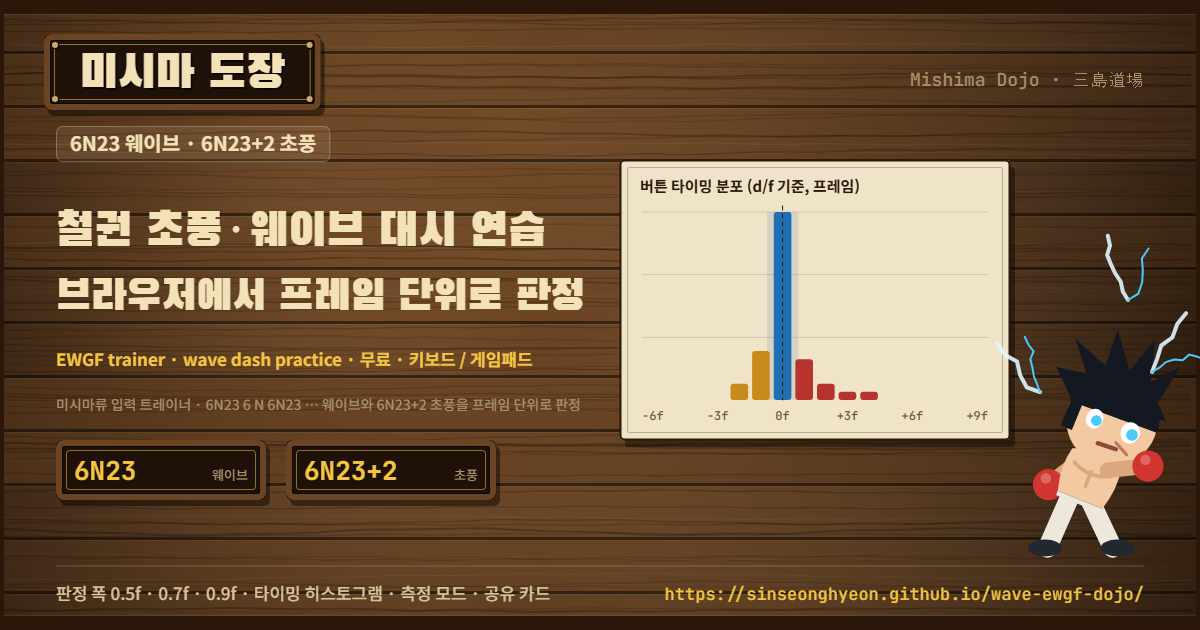
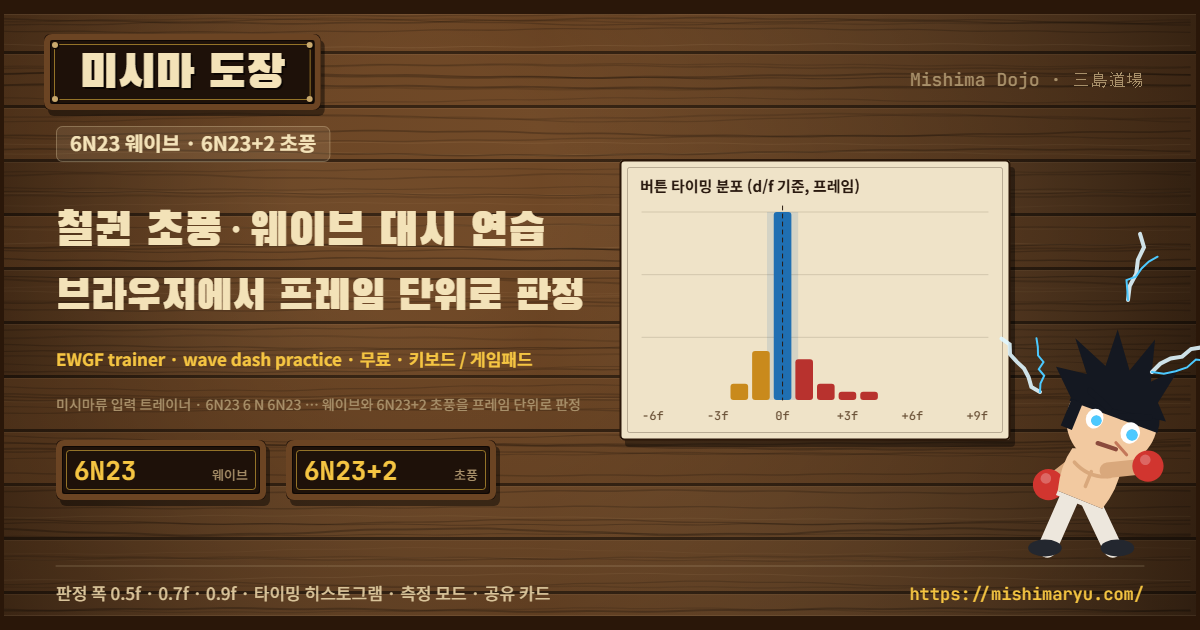
Move the site to mishimaryu.com
Add CNAME for the GitHub Pages custom domain, point canonical/og/share
URLs at https://mishimaryu.com/, regenerate og.png, and allow the apex
and www origins in the leaderboard worker (github.io kept for the redirect).
Also rewrites the early-button coach text (2 goes with the roll into d/f).

Claude-Session: https://claude.ai/code/session_01U3i3pqndvPV2zLaWgEybVw

diff --git a/index.html b/index.html
@@ -7,13 +7,13 @@
 <meta name="description" content="철권 미시마류 초풍(EWGF)·웨이브 대시(6N23) 입력을 브라우저에서 프레임 단위로 판정하는 무료 연습 도구. 키보드·게임패드 지원, 판정 폭 0.5f/0.7f/0.9f, 타이밍 히스토그램과 측정 모드. Free Tekken EWGF trainer & wave dash practice tool with frame-accurate input judging.">
 <meta name="robots" content="index,follow">
 <meta name="theme-color" content="#0B0E13">
-<link rel="canonical" href="https://sinseonghyeon.github.io/wave-ewgf-dojo/">
+<link rel="canonical" href="https://mishimaryu.com/">
 <meta property="og:type" content="website">
 <meta property="og:site_name" content="미시마 도장 · Mishima Dojo">
 <meta property="og:title" content="미시마 도장 | 철권 초풍·웨이브 대시 연습 (Mishima Dojo EWGF Trainer)">
 <meta property="og:description" content="철권 초풍·웨이브 대시 입력을 브라우저에서 프레임 단위로 판정하는 무료 연습 도구. Free Tekken EWGF trainer & wave dash practice tool.">
-<meta property="og:url" content="https://sinseonghyeon.github.io/wave-ewgf-dojo/">
-<meta property="og:image" content="https://sinseonghyeon.github.io/wave-ewgf-dojo/og.png">
+<meta property="og:url" content="https://mishimaryu.com/">
+<meta property="og:image" content="https://mishimaryu.com/og.png">
 <meta property="og:image:width" content="1200">
 <meta property="og:image:height" content="630">
 <meta property="og:image:alt" content="미시마 도장 — 철권 초풍·웨이브 대시 연습 도구 카드 (Mishima Dojo EWGF trainer)">
@@ -1967,7 +1967,7 @@ function renderWave(){
 }
 
 /* ---------- share card: pure data model (no DOM, unit-tested) ---------- */
-const SITE_URL = 'https://sinseonghyeon.github.io/wave-ewgf-dojo/';
+const SITE_URL = 'https://mishimaryu.com/';
 function buildCard(src){
   // src: {kind:'trial'|'session', mode, rec?, attempts, cycles, session?, window, date}
   const m = src.mode, win = src.window ?? store.window, s = src.session || session;

diff --git a/worker/index.js b/worker/index.js
@@ -29,7 +29,7 @@ const boardSpec = b => typeof b === 'string' && Object.hasOwn(BOARDS, b) ? BOARD
 // CORS headers on reads and 403 {error:'origin'} on POST, so it has no leaderboard, posts or visit counter. The list comes from
 // env.ALLOWED_ORIGINS (comma-separated, wrangler.toml [vars]); '*' allows any origin (tests). DELETE stays protected by ADMIN_TOKEN only,
 // so the admin can curl it without an Origin header.
-const DEFAULT_ORIGINS = 'https://sinseonghyeon.github.io';
+const DEFAULT_ORIGINS = 'https://mishimaryu.com, https://www.mishimaryu.com, https://sinseonghyeon.github.io'; // custom domain (2026-09-13) + the GitHub Pages origin it redirects from
 const originList = env => String(env && env.ALLOWED_ORIGINS || DEFAULT_ORIGINS).split(',').map(s => s.trim()).filter(Boolean);
 export const originOk = (request, env) => { const list = originList(env); if (list.includes('*')) return true; const o = request.headers.get('origin'); return !!o && list.includes(o); };
 const corsHeaders = (request, env) => {

diff --git a/.agents/docs/CODE_MAP.md b/.agents/docs/CODE_MAP.md
@@ -50,7 +50,7 @@ OG 카드   buildOgCard(): og.png용 소개 모델(style:'wood', hero:null, tagl
           openDonate()는 창을 열기 전에 endTrial(true)·resetInput()으로 카운트다운/측정을 취소하고 남은 입력을 지운다(0점 저장·자동 순위 등록·결과 창 중첩 방지).
           #donateDlg 뷰 2개: #donateChoose(제목·안내·#donateOptions에 renderDonate()가 순서대로 그린 선택지·닫기) / #donateKakao(QR #donateQr + 휴대폰용 직접 링크 #donateOpen + 뒤로 #donateBack). 카카오페이 선택은 뷰 전환(링크가 휴대폰 전용이라), Ko-fi 선택은 새 탭 링크 후 닫힘. 두 뷰 공통 하단에 문의 메일 링크(.donate-contact, footer.contact 번역 재사용). 문자열 donate.*
           donate-kakao.png는 DONATE.kakao.url을 담은 QR(제작 시 1회 생성한 정적 파일). 주소가 바뀌면 다시 만든다(스모크 테스트가 스크래치 페이지 옆에 복사)
-출처 잠금 워커는 env.ALLOWED_ORIGINS(기본 https://sinseonghyeon.github.io)에 있는 Origin에만 CORS 허용 헤더를 돌려주고 POST는 403 origin. 앱 쪽 코드 변경 없음. 도메인 연결 시 wrangler.toml [vars]에 추가 후 재배포
+출처 잠금 워커는 env.ALLOWED_ORIGINS(기본 https://mishimaryu.com, www, https://sinseonghyeon.github.io)에 있는 Origin에만 CORS 허용 헤더를 돌려주고 POST는 403 origin. 앱 쪽 코드 변경 없음. 도메인 연결 시 wrangler.toml [vars]에 추가 후 재배포
 백엔드    BOARD_URL(Worker 주소, 빈 문자열이면 backendInit()이 #boardCard·#postsCard를 숨기고 모든 fetch를 건너뜀) · board{tab,data[board]={week,start,end,total,rows,me},msg,seq}(seq: 가장 최근 boardLoad만 msg/data를 건드림) · live{visits,posts,postsMsg,posting,visitsBusy,nickBusy,nickMsg,nickLater,nickLost} · BOARDS = MODES 중 start 모드 목록(순위 탭·renderBests 순서) · nickOk/NICK_BAD/cleanNick/nickKey/hasNick()(워커와 같은 규칙. NICK_BAD는 유니코드 속성 클래스: 제어·서식(제로폭/양방향)·사용자 영역·미할당·행 구분자 + 한글 채움 문자·이체자 선택자. 워커 BAD_CHARS와 반드시 같게) · pctTop(rank,total)=상위 % (ceil, 최소 1) · tierOf(rank,total)=등급 0~5 = SS/S/A/B/C/D(TIERS=[1,10,20,50,70] 상위 % 상한. 참가 10명 미만이면 10명으로 계산해 혼자 1위는 S) · 배너 제목 tier.N.title(세 언어 공통 문자), 코멘트 tier.N.<mode>(측정 모드별, renderShareRank가 전역 mode로 고름) · WAVE_TOP_DEFAULT=5 · waveTop()=board.data.wave10.cut10(응답 end 이전이고 유한한 양수일 때만, 만료·없음은 null) · waveTopText(cut)=wave.top(v)/wave.topFixed · waveYMax(top)=max(8,ceil(top)+1) · waveGrid(yMax)=2 간격 눈금 · modalOpen(): #nickDlg/#shareDlg/#setDlg가 열려 있으면 키보드·패드 입력 무시(패드 폴링 주기로 불리므로 DOM 검색 없음)
           닉네임 게이트: store.nick + store.nickToken(48 hex; 닉 없는 토큰은 로더가 버림). backendInit()에서 hasNick()이 아니면 #nickDlg를 showModal → claimNick(POST /nick) 성공 시 nick·token 저장 후 boardLoad + boardSubmit(닉 없이 끝난 측정 결과가 있으면 그때 등록). 토큰 없는 옛 닉네임은 그대로 자동 claim. cancel 이벤트를 막아 Escape를 거부하지만 브라우저는 사용자 활성화가 없으면 무시하므로 게이트는 닫힐 수 있다 → close 이벤트에서 renderNick/renderTrialRank로 상태를 맞추고, 헤더 #nickBtn은 항상 보이며 닉 없으면 nick.set("닉네임 정하기"), 있으면 nick.change. 측정 모드 바 #dRank는 닉 없이 끝난 결과에 nick.needed를 표시. claim이 서버 쪽 이유(taken·nick 외: 네트워크·5xx·429)로 실패하면 live.nickLater로 #nickLater("나중에 · 순위 없이 연습") 버튼이 나타나 게이트를 닫을 수 있다(서버가 죽어도 연습은 가능). openNick()은 진행 중인 측정 모드(running/cdTimer)을 endTrial(true)로 취소한다(모달은 입력만 멈추고 시계는 멈추지 않으므로). 서버가 403 auth를 주면 lostNick()이 비우고, 결과 창이 열려 있거나 열리는 중(trial.openTimer)이면 live.nickLost만 켜 두었다가 #shareDlg close 때 게이트를 연다(모달 겹침 방지). 폼에서 내 닉의 대소문자/전각만 바꾼 경우(nickKey 동일)는 claim 없이 닫는다(서버는 409를 줄 것이므로). 한마디 폼은 #postNickLabel로 표시만
           boardFetch(path, init): fetch + JSON, 실패는 Error(message=서버 error 코드 또는 'http N'). AbortSignal.timeout(10초)로 멈춘 요청이 busy 플래그(게이트·등록·게시)를 영원히 붙들지 않게 한다

diff --git a/AGENTS.md b/AGENTS.md
@@ -8,7 +8,7 @@
 
 - 이름: 미시마 도장 (Mishima Dojo / 三島道場). 철권 미시마류 웨이브 대시·초풍 입력을 브라우저에서 프레임 단위로 판정하는 연습 도구. 비공식 팬 제작.
 - 코드: 루트 `index.html` 단일 파일(HTML+CSS+JS). 빌드 없음, 외부 라이브러리 없음.
-- 배포: GitHub Pages, main 브랜치 루트. https://sinseonghyeon.github.io/wave-ewgf-dojo/ (저장소 이름은 `wave-ewgf-dojo`로 유지. Pages 주소가 바뀌므로 사용자 결정 없이 바꾸지 않는다.)
+- 배포: GitHub Pages, main 브랜치 루트, 커스텀 도메인 https://mishimaryu.com/ (루트 `CNAME` 파일, Cloudflare Registrar에서 2026-09-13 구매, 자동 갱신 꺼짐 — 만료 전 사용자가 갱신 결정). 예전 주소 https://sinseonghyeon.github.io/wave-ewgf-dojo/ 는 GitHub이 새 도메인으로 301. 저장소 이름은 `wave-ewgf-dojo`로 유지하고, 도메인·`CNAME`·워커 `ALLOWED_ORIGINS`는 사용자 결정 없이 바꾸지 않는다.
 - 주소 모음: 저장소 https://github.com/SinSeonghyeon/wave-ewgf-dojo · 백엔드 Worker https://mishima-dojo-board.mishima-dojo.workers.dev · 후원 Ko-fi https://ko-fi.com/misimadojo (en/ja) · 카카오페이 송금 링크 https://qr.kakaopay.com/Ej8EBCpJu (ko, 휴대폰 전용) · 문의 이메일 tlstjdgus3@gmail.com (푸터 mailto·README·LICENSE) — 코드의 `BOARD_URL`/`DONATE`와 같아야 한다.
 - 테스트: `node --test tests/dojo.test.cjs tests/board.test.cjs` (Node 22.13+, 의존성 없음. 가짜 D1이 `node:sqlite`를 쓴다) · `node tests/smoke-chrome.js` (로컬 Chrome/Edge 헤드리스, CDP).
 - 개발 도구: `tools/` (커밋 대상). `tools/cdp.js`는 헤드리스 브라우저 공용 모듈, `tools/make-og.js`는 `og.png` 재생성. 앱 자체는 여전히 `index.html` 하나다.

diff --git a/.agents/docs/PLAN.md b/.agents/docs/PLAN.md
@@ -95,6 +95,7 @@
 
 ## 진행 로그
 
+- [x] 2026-09-13: 커스텀 도메인 mishimaryu.com(사용자가 Cloudflare Registrar에서 구매, 디시 등에서 github.io 링크가 막혀서). 루트 `CNAME`, `index.html` canonical·og:url·og:image·`SITE_URL`, README·LICENSE·AGENTS.md 주소 교체, 워커 `ALLOWED_ORIGINS`·`DEFAULT_ORIGINS`에 apex·www 추가(github.io 유지). **워커 재배포(`npx wrangler deploy`)와 DNS·Pages 설정은 사용자 작업.** og.png 하단에 주소가 찍히므로 `node tools/make-og.js`로 재생성(도구는 file:// 사본이 실제 워커를 CORS로 못 불러 종료 코드 1을 내지만 이미지는 정상 저장됨 — 기존 동작).
 - [x] 2026-09-13: 사용자 지적으로 `a.early_stage.coach`(ko/en/ja) 수정: "↓, ↓→ 까지 완성한 뒤 2"는 3을 다 넣고 누르라는 뜻이라 틀림 → "→, 떼고, ↓ 까지 넣은 뒤 ↓에서 오른쪽(↓→)으로 바꾸는 순간 2". (같은 날 만들었던 홍보 GIF 도구는 사용자 결정으로 폐기, 직접 촬영.)
 - [x] 2026-09-13: 옷장·패드 재리뷰 수정. 입력 변화 없는 패드 폴링의 판정 시각 갱신 제거, 대시 누적·최대 연속 즉시 저장 예약, 진행 중 잭팟의 측정·모달 진입 보류(타이머·차임 중단 및 같은 보상 재개), 현재 보상 언어 전환, 초기화 시 연출 폐기, KST 자정 첫 입력 출석 일수 갱신. CDP 연결·명령 대기 제한과 스모크 실패 시 정리 추가. 단위 77개·최종 브라우저 스모크 통과(JS 오류 0). 초기 출력 없는 대기 실행은 중단했으며 제한·진행 출력 추가 후 정상 완주를 확인.
 

diff --git a/README.md b/README.md
@@ -3,7 +3,7 @@
 철권 미시마류 커맨드(웨이브 대시, 초풍) 입력을 브라우저에서 프레임 단위로 판정하고, 코치 피드백과 기록을 남기는 연습 도구.
 비공식 팬 제작. 파일 하나(`index.html`)로 동작하며 빌드나 의존 파일이 없다. UI는 한국어·영어·일본어(헤더 토글, 브라우저 언어로 자동 선택).
 
-- 바로 쓰기: https://sinseonghyeon.github.io/wave-ewgf-dojo/
+- 바로 쓰기: https://mishimaryu.com/ (예전 주소 https://sinseonghyeon.github.io/wave-ewgf-dojo/ 는 여기로 넘어온다)
 - 라이선스: **오픈소스가 아닙니다.** © 2026 신성현, All rights reserved. 사이트 이용과 소스 열람은 자유지만 복제·수정·재배포·재호스팅은 금지합니다. 자세한 내용은 [LICENSE](LICENSE).
 - 로컬 실행: `index.html`을 브라우저로 열면 끝. 키보드와 게임패드 모두 인식.
 - 저장소: https://github.com/SinSeonghyeon/wave-ewgf-dojo
